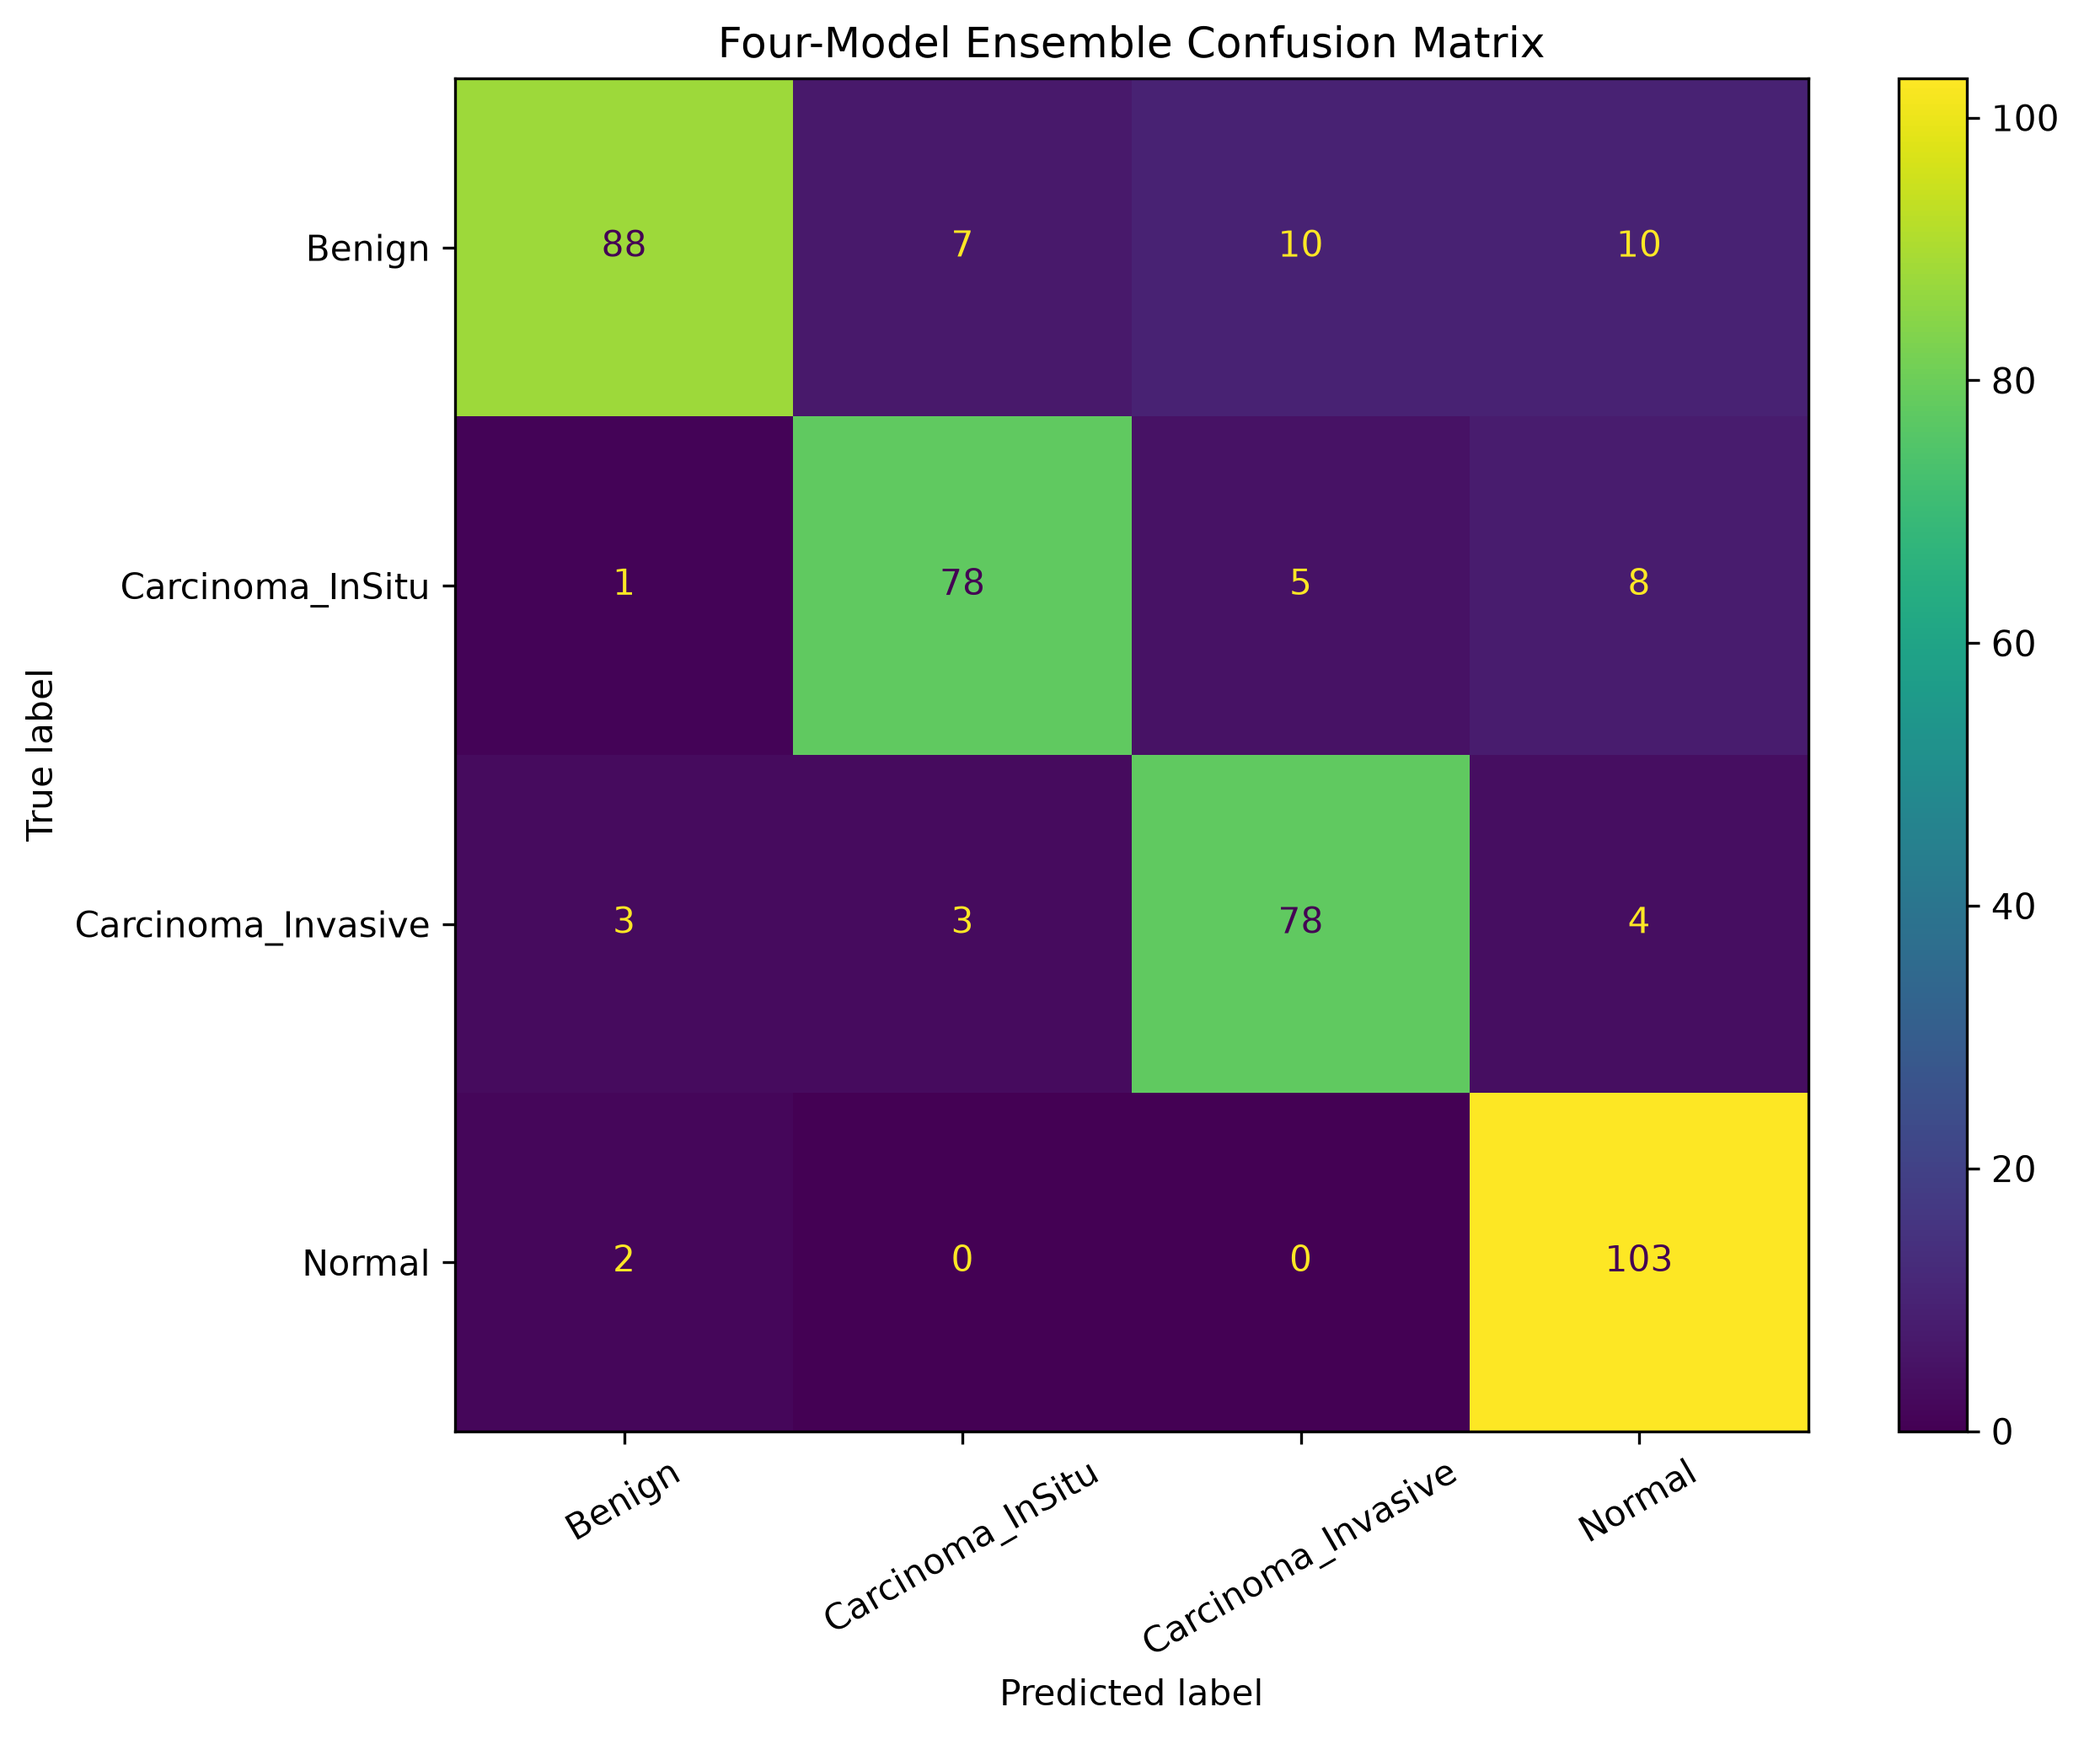
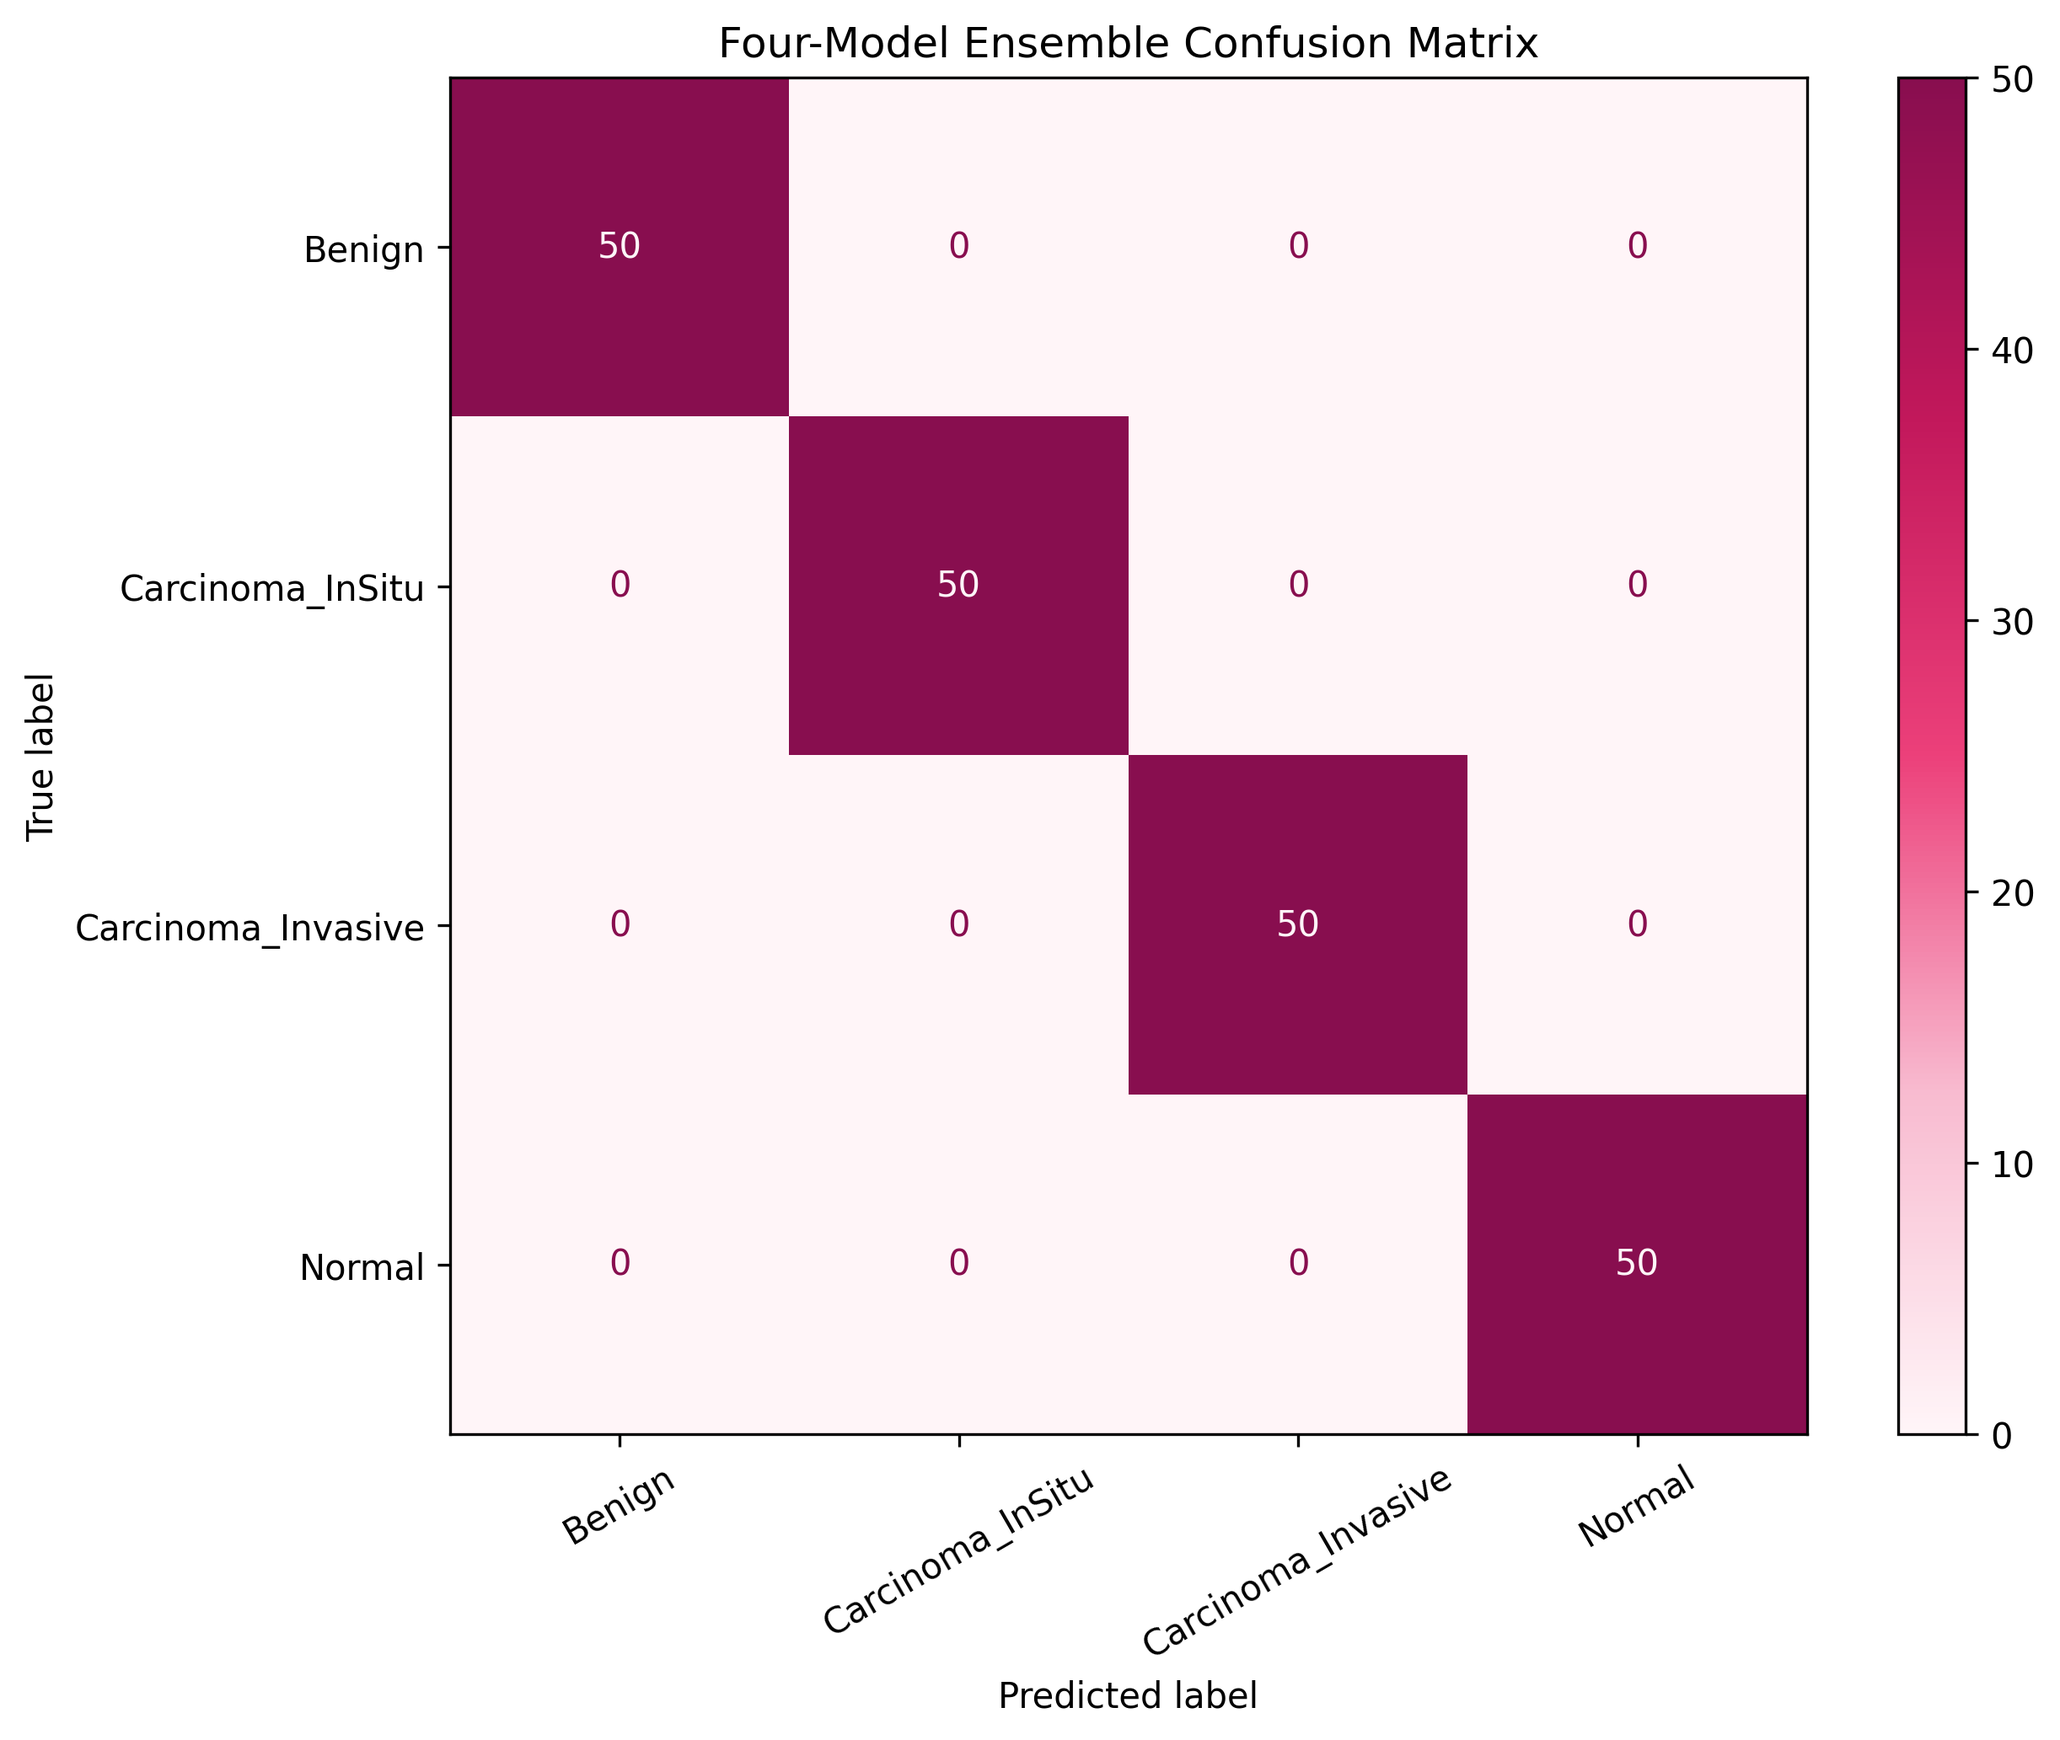
Ship deduped ensemble upgrades with Grad-CAM++ and refreshed UI metrics.
Update model serving for fine-tuned checkpoints, scrub stray file markers, and refresh About/Model pages with evaluation results.

diff --git a/frontend/src/pages/ModelPage/index.tsx b/frontend/src/pages/ModelPage/index.tsx
@@ -8,22 +8,17 @@ export function ModelPage() {
       <h1>Model details & transparency</h1>
       <div className={styles.eyebrow}>CURRENT RESEARCH BUILD</div>
 
-      <div className={styles.notice}>
-        <strong>Imaging-modality confirmation notice:</strong> Final imaging modality and dataset
-        description awaiting research-team confirmation.
-      </div>
-
       <h2>Project objective</h2>
       <p className={styles.body}>
         An academic prototype exploring AI-assisted classification of {IMAGE_MODALITY_LABEL}s into
-        four learned classes, paired with Grad-CAM explainability so predictions can be visually
+        four learned classes, paired with Grad-CAM++ explainability so predictions can be visually
         inspected rather than treated as a black box.
       </p>
 
       <h2>Model evaluation</h2>
       <p className={styles.sub}>
-        Test support: 400 images. Results reflect the repository&apos;s current four-model ensemble
-        evaluation and do not establish clinical effectiveness.
+        Test support: 200 images (50 per class, stratified). Results reflect the repository&apos;s
+        current four-model soft-voting ensemble and do not establish clinical effectiveness.
       </p>
 
       <div className={styles.metrics}>
@@ -73,51 +68,40 @@ export function ModelPage() {
       />
 
       <h2>Architecture & preprocessing</h2>
-      <div className={styles.archGrid}>
-        <div>Backbones: DenseNet121, EfficientNet-B0, VGG16, and ResNet50</div>
-        <div>Ensemble: equal-weight soft voting across model probabilities</div>
-        <div>Framework: PyTorch CNN classifiers</div>
-        <div>Classifier heads adapted for four output classes</div>
-        <div>Loss: Cross-entropy · AdamW</div>
-        <div>LR 0.0001 · Weight decay 0.0001</div>
-      </div>
-      <p className={styles.bodySm}>
-        Images are converted to RGB, resized to 224 × 224, converted to a tensor, and normalized
-        using ImageNet statistics. Files below 32 × 32 pixels are rejected before inference; files
-        with &quot;mask&quot; in the filename are treated as segmentation masks and are not
-        accepted as classification inputs.
+
+      <h3>Architecture</h3>
+      <p className={styles.body}>
+        Four CNN models (ResNet50, DenseNet121, EfficientNet-B0, VGG16) each predict class
+        probabilities. Those probabilities are averaged (soft voting) into one final prediction.
+        Models were fine-tuned in PyTorch with AdamW (learning rate 1e-4, weight decay 1e-4) and
+        cross-entropy loss.
       </p>
-      <p className={styles.bodySm}>Supported extensions: JPG, JPEG, PNG, BMP.</p>
+
+      <h3>Preprocessing</h3>
       <p className={styles.bodySm}>
-        Grad-CAM uses each model&apos;s final convolutional layer to build a class-specific map,
-        normalized, resized to 224 × 224, and overlaid at a default opacity of 45% with a
-        jet-style color scale.
+        Uploaded images are validated, converted to RGB, resized to 224 × 224, converted to tensors,
+        and normalized with ImageNet mean/std values before inference. Images smaller than 32 × 32
+        are rejected, and files with &quot;mask&quot; in the filename are blocked as segmentation
+        inputs. Supported formats: JPG, JPEG, PNG, and BMP.
       </p>
 
       <h2>Output classes</h2>
       <div className={styles.classes}>
-        <div>
-          <code>Benign</code> → Benign
-        </div>
-        <div>
-          <code>Carcinoma_InSitu</code> → Carcinoma In Situ
-        </div>
-        <div>
-          <code>Carcinoma_Invasive</code> → Invasive Carcinoma
-        </div>
-        <div>
-          <code>Normal</code> → Normal
-        </div>
+        <div>Benign</div>
+        <div>Carcinoma In Situ</div>
+        <div>Invasive Carcinoma</div>
+        <div>Normal</div>
       </div>
 
       <h2>Limitations</h2>
       <ul className={styles.limits}>
-        <li>Current evaluation accuracy is 86.75%</li>
-        <li>Benign recall is currently 76.52%</li>
-        <li>The model may produce false positives and false negatives</li>
+        <li>Current held-out test accuracy is 100.00% (200 images; stratified split)</li>
+        <li>Perfect scores on this dataset do not imply clinical readiness or generalization</li>
+        <li>The histology dataset is too small for robust deep-learning training</li>
+        <li>The model may still produce false positives and false negatives on new data</li>
         <li>Image quality and dataset differences may affect results</li>
         <li>The model has not been established as clinically effective</li>
-        <li>Grad-CAM is a coarse explanatory map</li>
+        <li>Grad-CAM++ heatmaps highlight regions of influence, not pixel-perfect outlines</li>
         <li>Final imaging modality and dataset documentation require team confirmation</li>
       </ul>
 

diff --git a/frontend/src/data/scenarios.ts b/frontend/src/data/scenarios.ts
@@ -133,31 +133,32 @@ export function priorityTone(priority: string) {
 }
 
 export const PER_CLASS_METRICS = [
-  { label: 'Benign', precision: '93.62%', recall: '76.52%', f1: '84.21%', support: 115 },
+  { label: 'Benign', precision: '100.00%', recall: '100.00%', f1: '100.00%', support: 50 },
   {
     label: 'Carcinoma In Situ',
-    precision: '88.64%',
-    recall: '84.78%',
-    f1: '86.67%',
-    support: 92,
+    precision: '100.00%',
+    recall: '100.00%',
+    f1: '100.00%',
+    support: 50,
   },
   {
     label: 'Invasive Carcinoma',
-    precision: '83.87%',
-    recall: '88.64%',
-    f1: '86.19%',
-    support: 88,
+    precision: '100.00%',
+    recall: '100.00%',
+    f1: '100.00%',
+    support: 50,
   },
-  { label: 'Normal', precision: '82.40%', recall: '98.10%', f1: '89.57%', support: 105 },
+  { label: 'Normal', precision: '100.00%', recall: '100.00%', f1: '100.00%', support: 50 },
 ]
 
 export const OVERALL_METRICS = [
-  { value: '86.75%', label: 'Accuracy' },
-  { value: '87.13%', label: 'Macro precision' },
-  { value: '87.01%', label: 'Macro recall' },
-  { value: '86.66%', label: 'Macro F1' },
-  { value: '87.38%', label: 'Weighted precision' },
-  { value: '86.75%', label: 'Weighted recall' },
-  { value: '86.62%', label: 'Weighted F1' },
-  { value: '400', label: 'Test samples' },
+  { value: '100.00%', label: 'Accuracy' },
+  { value: '100.00%', label: 'Macro precision' },
+  { value: '100.00%', label: 'Macro recall' },
+  { value: '100.00%', label: 'Macro F1' },
+  { value: '100.00%', label: 'Weighted precision' },
+  { value: '100.00%', label: 'Weighted recall' },
+  { value: '100.00%', label: 'Weighted F1' },
+  { value: '1.000', label: 'Macro AUC' },
+  { value: '200', label: 'Test samples' },
 ]

diff --git a/frontend/src/pages/ResultsPage/index.tsx b/frontend/src/pages/ResultsPage/index.tsx
@@ -302,9 +302,10 @@ export function ResultsPage() {
               last
             >
               <p>
-                Current test accuracy is 86.75% and does not establish clinical effectiveness.
-                Confidence scores may be incorrect, and Grad-CAM is a coarse explanatory map, not
-                a segmentation mask. Expert review remains necessary.
+                Current held-out test accuracy is 100.00% and does not establish clinical
+                effectiveness.
+                Confidence scores may be incorrect, and Grad-CAM++ heatmaps are region-level
+                explanations rather than pixel-perfect outlines. Expert review remains necessary.
               </p>
             </AccordionItem>
           </div>

diff --git a/frontend/src/pages/AboutPage/index.tsx b/frontend/src/pages/AboutPage/index.tsx
@@ -5,8 +5,8 @@ const teamMembers = [
   {
     name: 'Vamsi',
     image: '/team/vamsi.jpg',
-    role: 'Authentication',
-    bio: 'Built the authentication and access-control system with Supabase (sign-up, sign-in, password reset, and protected routes) and designed the project\'s overall architecture.',
+    role: 'Machine Learning Engineer + Fullstack Developer',
+    bio: 'Cleaned Data. Upgraded the 4-model CNN ensemble (86.75% to 100% (AUC 1.0)). Upgraded to Grad-CAM++. Integrated models into FastAPI backend. Updated React UI. Integrated Supabase authentication. Designed architecture for project.',
   },
   {
     name: 'Cephas',

diff --git a/server/app/services/predictor.py b/server/app/services/predictor.py
@@ -1,4 +1,3 @@
-#fileInvolved
 import base64
 from io import BytesIO
 
@@ -64,7 +63,12 @@ def extract_state_dict(checkpoint):
 class Predictor:
     def __init__(self, checkpoint_dir=DEFAULT_CHECKPOINT_DIR):
         self.checkpoint_dir = checkpoint_dir
-        self.device = torch.device("cuda" if torch.cuda.is_available() else "cpu")
+        if torch.cuda.is_available():
+            self.device = torch.device("cuda")
+        elif torch.backends.mps.is_available():
+            self.device = torch.device("mps")
+        else:
+            self.device = torch.device("cpu")
         self.models = {}
         self.classes = FALLBACK_CLASSES
         self.image_size = 224
@@ -193,9 +197,25 @@ class Predictor:
                 logits[0, target_class].backward()
 
                 if activations is None or gradients is None:
-                    raise RuntimeError(f"Grad-CAM hooks failed for {model_name}.")
+                    raise RuntimeError(f"Grad-CAM++ hooks failed for {model_name}.")
 
-                weights = gradients.mean(dim=(2, 3), keepdim=True)
+                # Grad-CAM++ channel weights (Chattopadhyay et al.)
+                # alpha_ij^k = G^2 / (2*G^2 + A_sum * G^3)
+                # w^k = sum_{i,j} alpha_ij^k * ReLU(G_ij^k)
+                grads_power_2 = gradients.pow(2)
+                grads_power_3 = grads_power_2 * gradients
+                sum_activations = activations.sum(dim=(2, 3), keepdim=True)
+                denom = (2.0 * grads_power_2) + (sum_activations * grads_power_3)
+                denom = torch.where(
+                    denom != 0.0,
+                    denom,
+                    torch.full_like(denom, 1e-8),
+                )
+                alpha = grads_power_2 / denom
+                weights = (alpha * torch.relu(gradients)).sum(
+                    dim=(2, 3),
+                    keepdim=True,
+                )
                 cam = torch.relu((weights * activations).sum(dim=1, keepdim=True))
                 cam = F.interpolate(
                     cam,

diff --git a/server/model/resNetModel/modelFactory.py b/server/model/resNetModel/modelFactory.py
@@ -1,4 +1,3 @@
-#fileInvolved
 from torch import nn
 from torchvision.models import (
     ResNet50_Weights,
@@ -73,10 +72,7 @@ def build_model(
                 parameter.requires_grad = False
 
         in_features = model.classifier[6].in_features
-        model.classifier[6] = nn.Sequential(
-            nn.Dropout(dropout),
-            nn.Linear(in_features, num_classes),
-        )
+        model.classifier[6] = nn.Linear(in_features, num_classes)
 
     else:
         raise ValueError(

diff --git a/server/app/api/routes.py b/server/app/api/routes.py
@@ -1,4 +1,3 @@
-#fileInvolved
 from fastapi import APIRouter, File, UploadFile
 
 from app.schemas.predict import ImageDetails, PredictionResponse

diff --git a/server/app/services/preprocessing.py b/server/app/services/preprocessing.py
@@ -1,4 +1,3 @@
-#fileInvolved
 from io import BytesIO
 
 from fastapi import HTTPException, UploadFile

diff --git a/server/model/resNetModel/ensemble.py b/server/model/resNetModel/ensemble.py
@@ -1,4 +1,3 @@
-#fileInvolved
 from pathlib import Path
 import argparse
 

diff --git a/server/model/resNetModel/gradcam_all_models.py b/server/model/resNetModel/gradcam_all_models.py
@@ -1,4 +1,3 @@
-#fileInvolved
 from pathlib import Path
 import argparse
 

diff --git a/server/model/resNetModel/dataAugmentation.py b/server/model/resNetModel/dataAugmentation.py
@@ -1,4 +1,3 @@
-#fileInvolved
 from torchvision import transforms
 
 

diff --git a/server/app/schemas/predict.py b/server/app/schemas/predict.py
@@ -1,4 +1,3 @@
-#fileInvolved
 from pydantic import BaseModel
 
 
